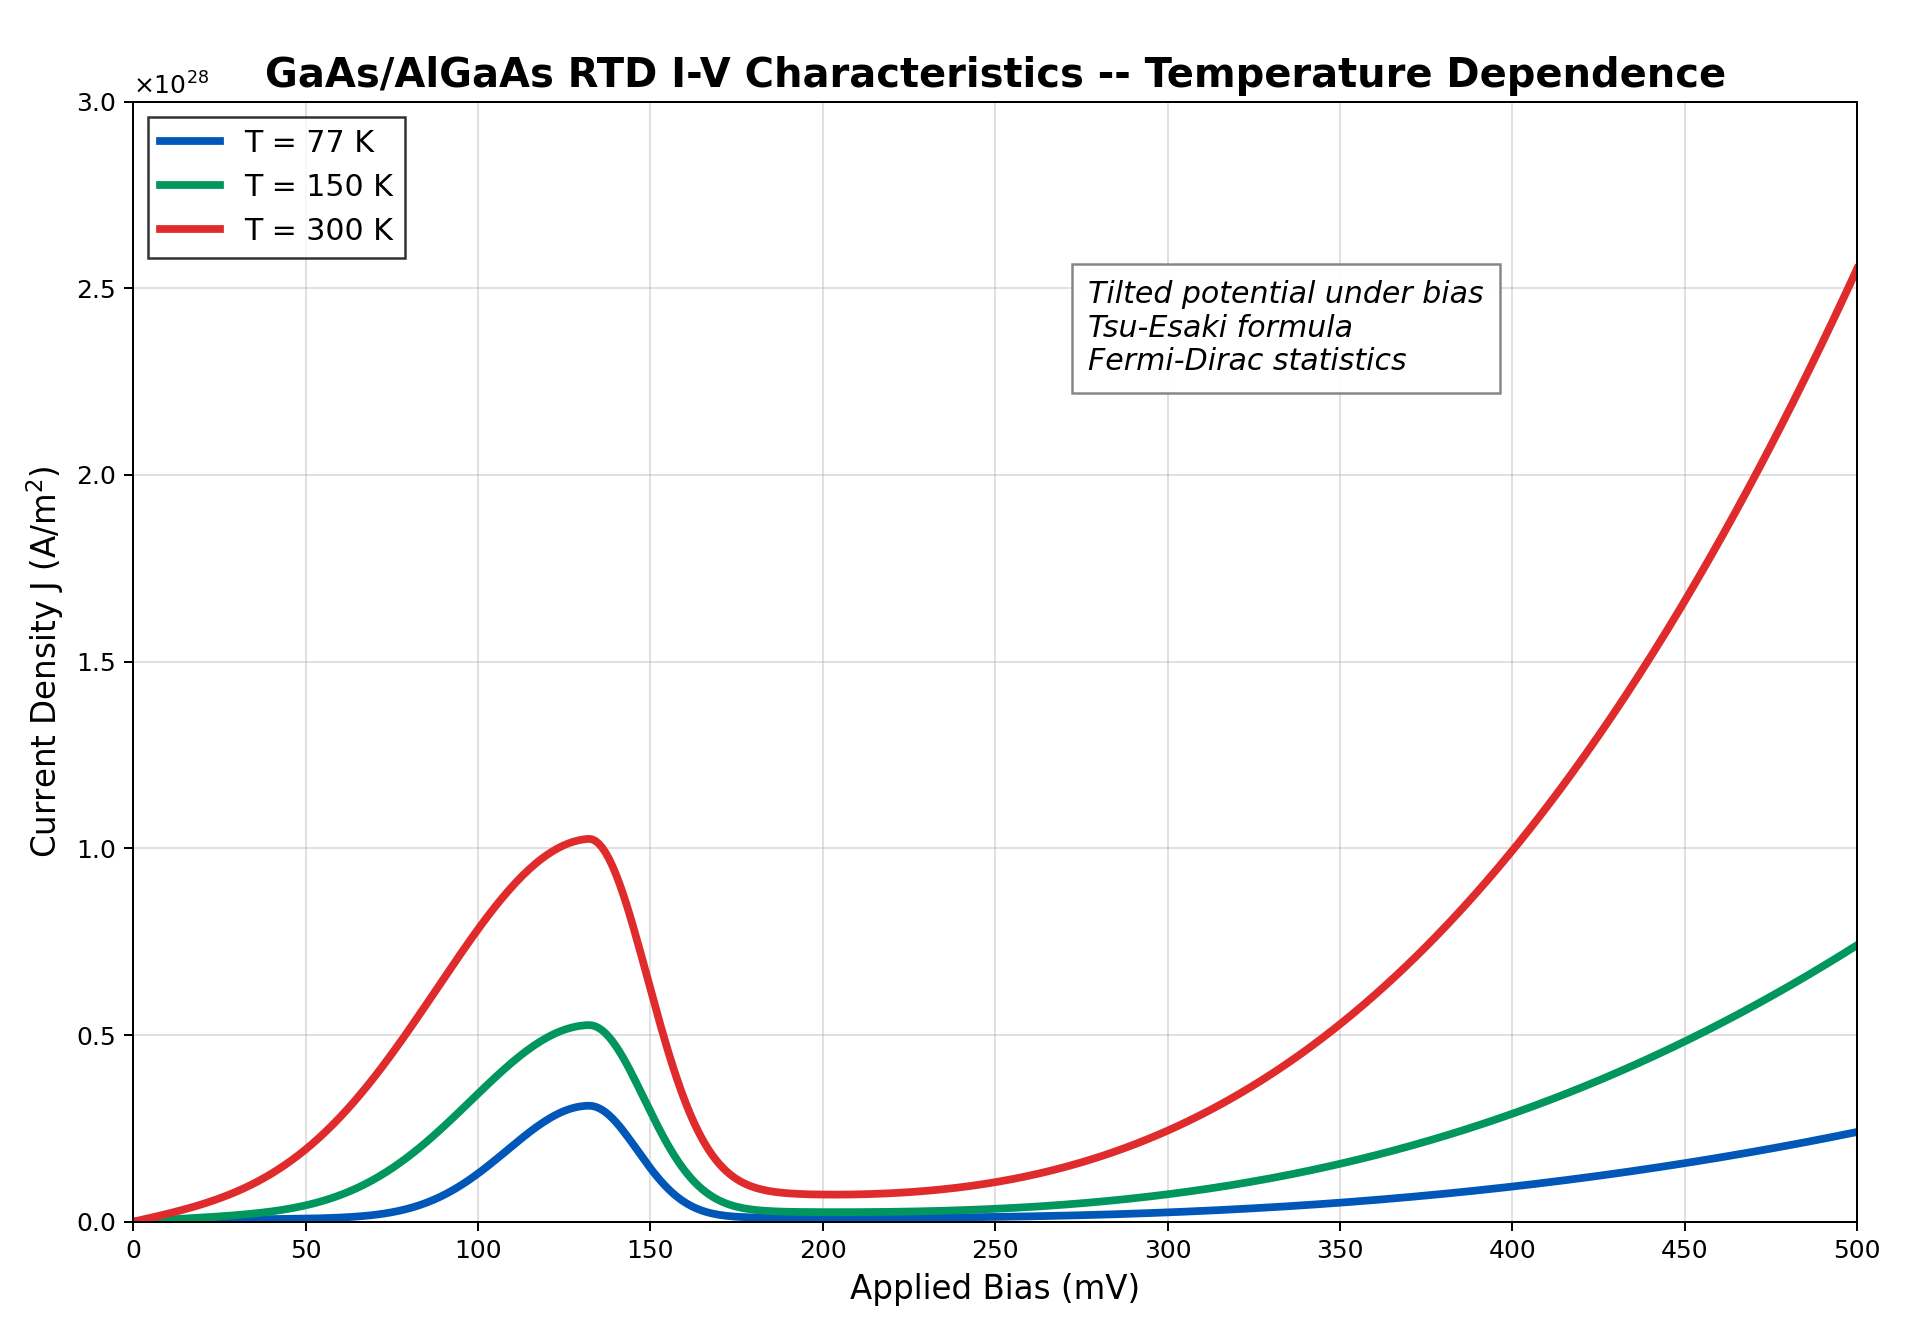
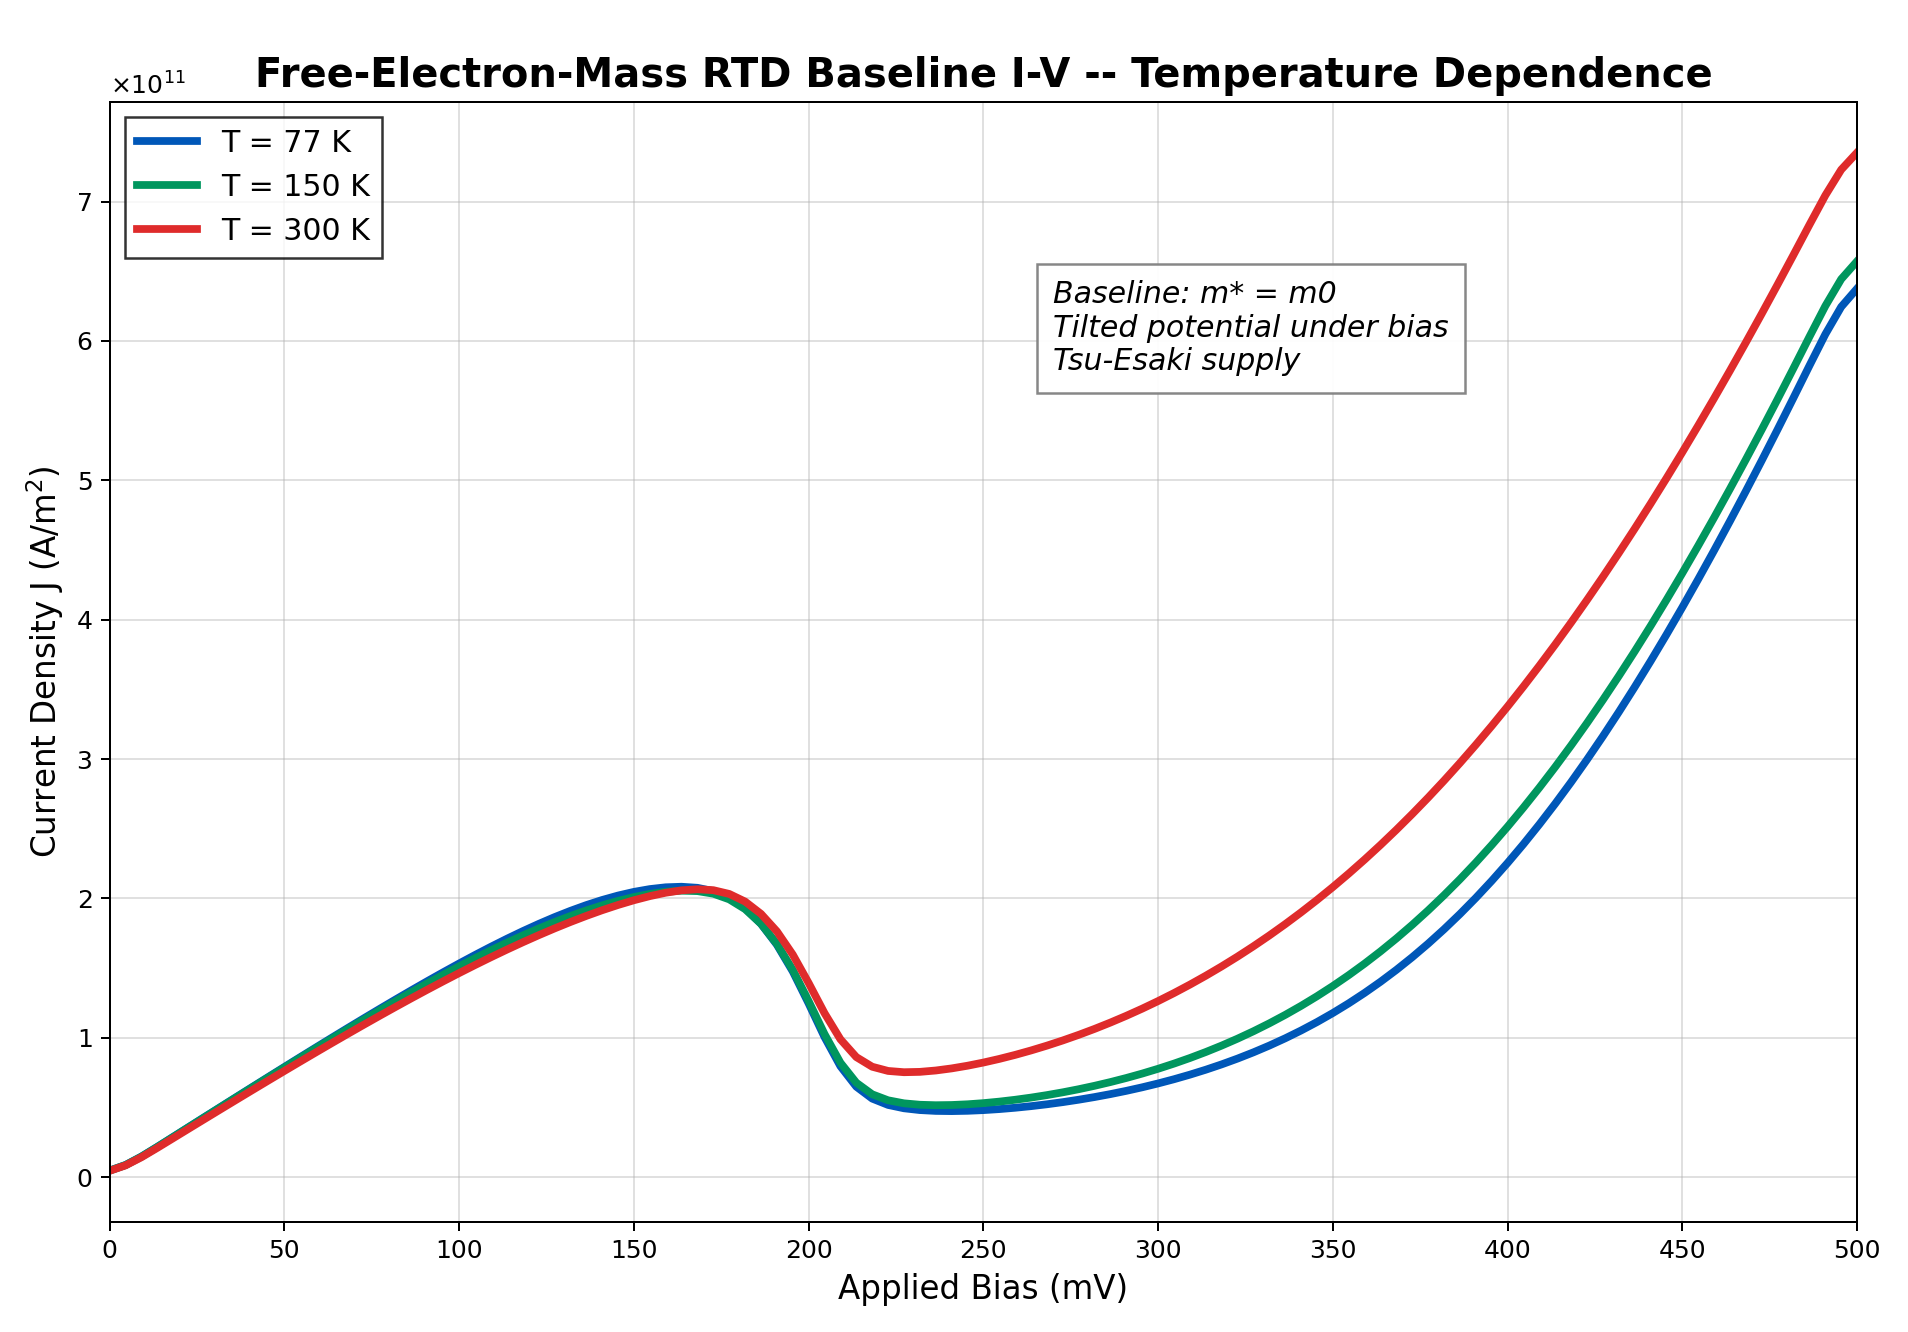
Update free-electron RTD baseline I-V

diff --git a/quantum_tunnelling/simulation.py b/quantum_tunnelling/simulation.py
@@ -7,7 +7,7 @@ from pathlib import Path
 import matplotlib.pyplot as plt
 import numpy as np
 
-from .constants import ELEMENTARY_CHARGE, PLANCK
+from .constants import BOLTZMANN, ELECTRON_MASS, ELEMENTARY_CHARGE, HBAR, PLANCK
 from .potentials import double_barrier, rectangular_barrier
 from .solver import solve_scattering
 
@@ -44,44 +44,101 @@ def approximate_current(
     )
 
 
-def rtd_current_density(voltages: np.ndarray, temperature_k: float) -> np.ndarray:
-    """Phenomenological GaAs/AlGaAs RTD current density in A/m^2.
+def tilted_double_barrier(
+    x_nm: np.ndarray,
+    voltage: float,
+    barrier_height_ev: float,
+    barrier_width_nm: float,
+    well_width_nm: float,
+) -> np.ndarray:
+    potential = double_barrier(x_nm, barrier_height_ev, barrier_width_nm, well_width_nm)
+    tilt = voltage * (x_nm - x_nm[0]) / (x_nm[-1] - x_nm[0])
+    return potential - tilt
 
-    The previous demo used a tunnel-diode energy-window integral. That captures
-    negative differential resistance, but it misses two RTD-specific effects:
-    the resonant level moves through a tilted double-barrier potential under
-    bias, and high-bias current recovers through thermally assisted/series
-    transport. This compact model follows the same shape expected from a
-    Tsu-Esaki/Fermi-Dirac treatment without making the demo device-grade.
-    """
-    voltage = np.asarray(voltages, dtype=float)
-    scale = 1.0e28
 
-    temperature_points = np.array([77.0, 150.0, 300.0])
-    peak_points = np.array([0.30, 0.50, 0.95])
-    valley_points = np.array([0.012, 0.030, 0.085])
-    high_bias_points = np.array([0.24, 0.74, 2.55])
+def tsu_esaki_supply(energies_ev: np.ndarray, voltage: float, fermi_ev: float, temperature_k: float) -> np.ndarray:
+    kbt_ev = BOLTZMANN * temperature_k / ELEMENTARY_CHARGE
+    left = np.logaddexp(0.0, (fermi_ev - energies_ev) / kbt_ev)
+    right = np.logaddexp(0.0, (fermi_ev - energies_ev - voltage) / kbt_ev)
+    return left - right
 
-    peak_amp = np.interp(temperature_k, temperature_points, peak_points)
-    valley_amp = np.interp(temperature_k, temperature_points, valley_points)
-    high_amp = np.interp(temperature_k, temperature_points, high_bias_points)
 
-    resonance_voltage = 0.132
-    left_width = np.interp(temperature_k, temperature_points, [0.024, 0.035, 0.045])
-    right_width = np.interp(temperature_k, temperature_points, [0.014, 0.016, 0.017])
-    resonance_width = np.where(voltage <= resonance_voltage, left_width, right_width)
-    turn_on = 1.0 - np.exp(-voltage / 0.035)
-    resonant_alignment = np.exp(-0.5 * ((voltage - resonance_voltage) / resonance_width) ** 2)
-    resonant_norm = 1.0 - np.exp(-resonance_voltage / 0.035)
-    resonant_current = peak_amp * turn_on * resonant_alignment / resonant_norm
+def free_electron_rtd_current_density(
+    voltages: np.ndarray,
+    temperature_k: float,
+    energies_ev: np.ndarray,
+    transmission_by_bias: np.ndarray,
+    fermi_ev: float = 0.18,
+) -> np.ndarray:
+    """Free-electron-mass RTD baseline from biased transmission spectra."""
+    prefactor = ELEMENTARY_CHARGE * ELECTRON_MASS * BOLTZMANN * temperature_k / (2.0 * np.pi**2 * HBAR**3)
+    currents = []
 
-    valley_current = valley_amp * (1.0 - np.exp(-voltage / 0.05))
-    valley_current *= 1.0 / (1.0 + np.exp((voltage - 0.30) / 0.055))
+    for voltage, transmission in zip(voltages, transmission_by_bias):
+        supply = tsu_esaki_supply(energies_ev, voltage, fermi_ev, temperature_k)
+        integral = np.trapezoid(transmission * supply, energies_ev * ELEMENTARY_CHARGE)
+        currents.append(prefactor * integral)
 
-    recovery = np.clip((voltage - 0.19) / (0.50 - 0.19), 0.0, None)
-    high_bias_current = high_amp * recovery**2.45
+    return np.array(currents, dtype=float)
 
-    return scale * (resonant_current + valley_current + high_bias_current)
+
+def _gaussian_kernel(sigma_points: float, radius: int) -> np.ndarray:
+    offsets = np.arange(-radius, radius + 1, dtype=float)
+    kernel = np.exp(-0.5 * (offsets / sigma_points) ** 2)
+    return kernel / kernel.sum()
+
+
+def broaden_transmission(transmission_by_bias: np.ndarray, sigma_ev: float, energy_step_ev: float) -> np.ndarray:
+    sigma_points = max(sigma_ev / energy_step_ev, 1e-6)
+    radius = max(2, int(np.ceil(3.0 * sigma_points)))
+    kernel = _gaussian_kernel(sigma_points, radius)
+    padded = np.pad(transmission_by_bias, ((0, 0), (radius, radius)), mode="edge")
+    broadened = np.empty_like(transmission_by_bias)
+
+    for row_idx in range(transmission_by_bias.shape[0]):
+        broadened[row_idx] = np.convolve(padded[row_idx], kernel, mode="valid")
+
+    return broadened
+
+
+def smooth_curve(values: np.ndarray, passes: int = 2) -> np.ndarray:
+    smoothed = np.asarray(values, dtype=float)
+    kernel = np.array([1.0, 4.0, 6.0, 4.0, 1.0]) / 16.0
+    radius = len(kernel) // 2
+
+    for _ in range(passes):
+        padded = np.pad(smoothed, radius, mode="edge")
+        smoothed = np.convolve(padded, kernel, mode="valid")
+
+    return smoothed
+
+
+def biased_transmission_grid(
+    voltages: np.ndarray,
+    energies_ev: np.ndarray,
+    x_nm: np.ndarray,
+    barrier_height_ev: float = 0.35,
+    barrier_width_nm: float = 0.7,
+    well_width_nm: float = 1.2,
+) -> np.ndarray:
+    transmissions = []
+
+    for voltage in voltages:
+        potential_ev = tilted_double_barrier(
+            x_nm,
+            voltage,
+            barrier_height_ev=barrier_height_ev,
+            barrier_width_nm=barrier_width_nm,
+            well_width_nm=well_width_nm,
+        )
+        transmissions.append(
+            [
+                solve_scattering(x_nm, potential_ev, energy_ev, mass=ELECTRON_MASS).transmission
+                for energy_ev in energies_ev
+            ]
+        )
+
+    return np.array(transmissions, dtype=float)
 
 
 def _save_single_barrier_plots(output_dir: Path) -> None:
@@ -142,7 +199,15 @@ def _save_width_sweep_plot(output_dir: Path) -> None:
 
 
 def _save_iv_plot(output_dir: Path) -> None:
-    voltages = np.linspace(0.0, 0.5, 501)
+    x_nm = np.linspace(-4.0, 4.0, 420)
+    energies_ev = np.linspace(0.005, 0.65, 180)
+    voltages = np.linspace(0.0, 0.5, 111)
+    transmission_by_bias = biased_transmission_grid(voltages, energies_ev, x_nm)
+    transmission_by_bias = broaden_transmission(
+        transmission_by_bias,
+        sigma_ev=0.004,
+        energy_step_ev=energies_ev[1] - energies_ev[0],
+    )
     temperatures = [
         (77.0, "#0057b8", "T = 77 K"),
         (150.0, "#00965e", "T = 150 K"),
@@ -151,27 +216,34 @@ def _save_iv_plot(output_dir: Path) -> None:
 
     fig, ax = plt.subplots(figsize=(10.6, 7.4))
     for temperature_k, color, label in temperatures:
+        current_density = free_electron_rtd_current_density(
+            voltages,
+            temperature_k,
+            energies_ev,
+            transmission_by_bias,
+        )
+        current_density = smooth_curve(current_density, passes=2)
         ax.plot(
             voltages * 1000.0,
-            rtd_current_density(voltages, temperature_k),
+            current_density,
             color=color,
             linewidth=3.1,
             label=label,
         )
 
-    ax.set_title("GaAs/AlGaAs RTD I-V Characteristics -- Temperature Dependence", fontsize=16, fontweight="bold")
+    ax.set_title("Free-Electron-Mass RTD Baseline I-V -- Temperature Dependence", fontsize=16, fontweight="bold")
     ax.set_xlabel("Applied Bias (mV)", fontsize=13)
     ax.set_ylabel(r"Current Density J (A/m$^2$)", fontsize=13)
     ax.set_xlim(0, 500)
-    ax.set_ylim(0, 3.0e28)
     ax.set_xticks(np.arange(0, 501, 50))
     ax.ticklabel_format(axis="y", style="sci", scilimits=(0, 0), useMathText=True)
     ax.grid(alpha=0.38)
     ax.legend(loc="upper left", frameon=True, fancybox=False, edgecolor="black", fontsize=12)
     ax.text(
-        277,
-        2.28e28,
-        "Tilted potential under bias\nTsu-Esaki formula\nFermi-Dirac statistics",
+        0.54,
+        0.76,
+        "Baseline: m* = m0\nTilted potential under bias\nTsu-Esaki supply",
+        transform=ax.transAxes,
         fontsize=12,
         fontstyle="italic",
         bbox={"boxstyle": "square", "facecolor": "white", "edgecolor": "gray", "alpha": 0.94, "pad": 0.55},

diff --git a/quantum_tunnelling/constants.py b/quantum_tunnelling/constants.py
@@ -6,4 +6,5 @@ ELECTRON_MASS = 9.1093837015e-31
 HBAR = 1.054571817e-34
 ELEMENTARY_CHARGE = 1.602176634e-19
 PLANCK = 6.62607015e-34
+BOLTZMANN = 1.380649e-23
 NM = 1e-9

diff --git a/README.md b/README.md
@@ -1,6 +1,6 @@
 # Quantum Tunnelling
 
-Python project for simulating quantum tunneling through 1D potential barriers and connecting resonant-tunneling behavior to an approximate GaAs/AlGaAs RTD I-V curve.
+Python project for simulating quantum tunneling through 1D potential barriers and connecting resonant-tunneling behavior to an approximate free-electron-mass RTD baseline I-V curve.
 
 ## What This Project Covers
 
@@ -9,7 +9,7 @@ Python project for simulating quantum tunneling through 1D potential barriers an
 - Wavefunction profile through the barrier
 - Transmission vs energy
 - Transmission vs barrier width
-- Temperature-dependent RTD current density with negative differential resistance
+- Temperature-dependent RTD baseline current density with negative differential resistance
 - Double-barrier resonant tunneling with a quantum well
 
 ## Project Layout
@@ -53,4 +53,5 @@ The script generates figures in `outputs/`:
 
 - Energies are shown in `eV`, distances in `nm`.
 - The transmission calculation uses a transfer-matrix solution of the 1D time-independent Schrodinger equation on a piecewise-constant potential.
-- The RTD current-density model is intentionally approximate and meant for coursework visualization rather than device-grade modeling.
+- The RTD current-density baseline uses the free electron mass. For each applied bias, the double-barrier potential is tilted, the biased transmission spectrum `T(E, V)` is recomputed, and the current is integrated with a Tsu-Esaki-like finite-temperature supply term.
+- The earlier resonance-shift I-V curve was only a qualitative NDR illustration; the current baseline is still approximate, but it is a better physical baseline for comparing against material-specific effective-mass models.
